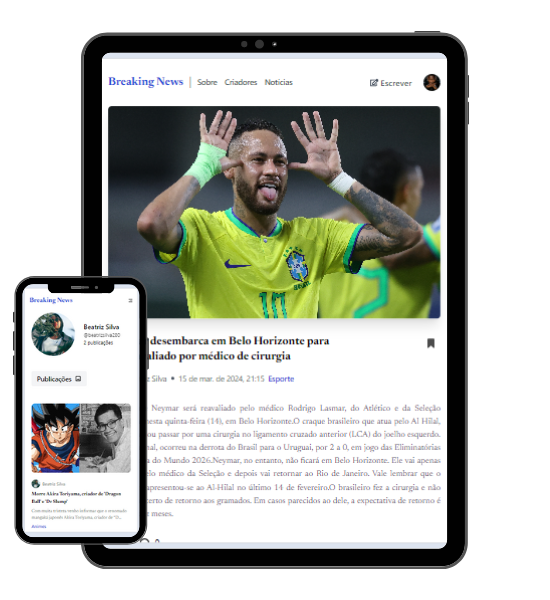
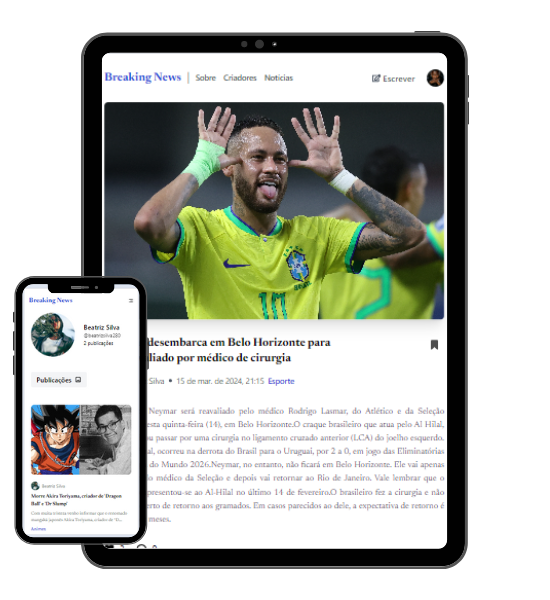
refactor: Atualizando imagem do projeto breaking news

diff --git a/src/containers/Header.css b/src/containers/Header.css
@@ -38,7 +38,7 @@
 }
 
 .portfolio_header-title p {
-    font-size: 20px;
+    font-size: 28px;
     font-weight: 600;
     opacity: .7;
 }
